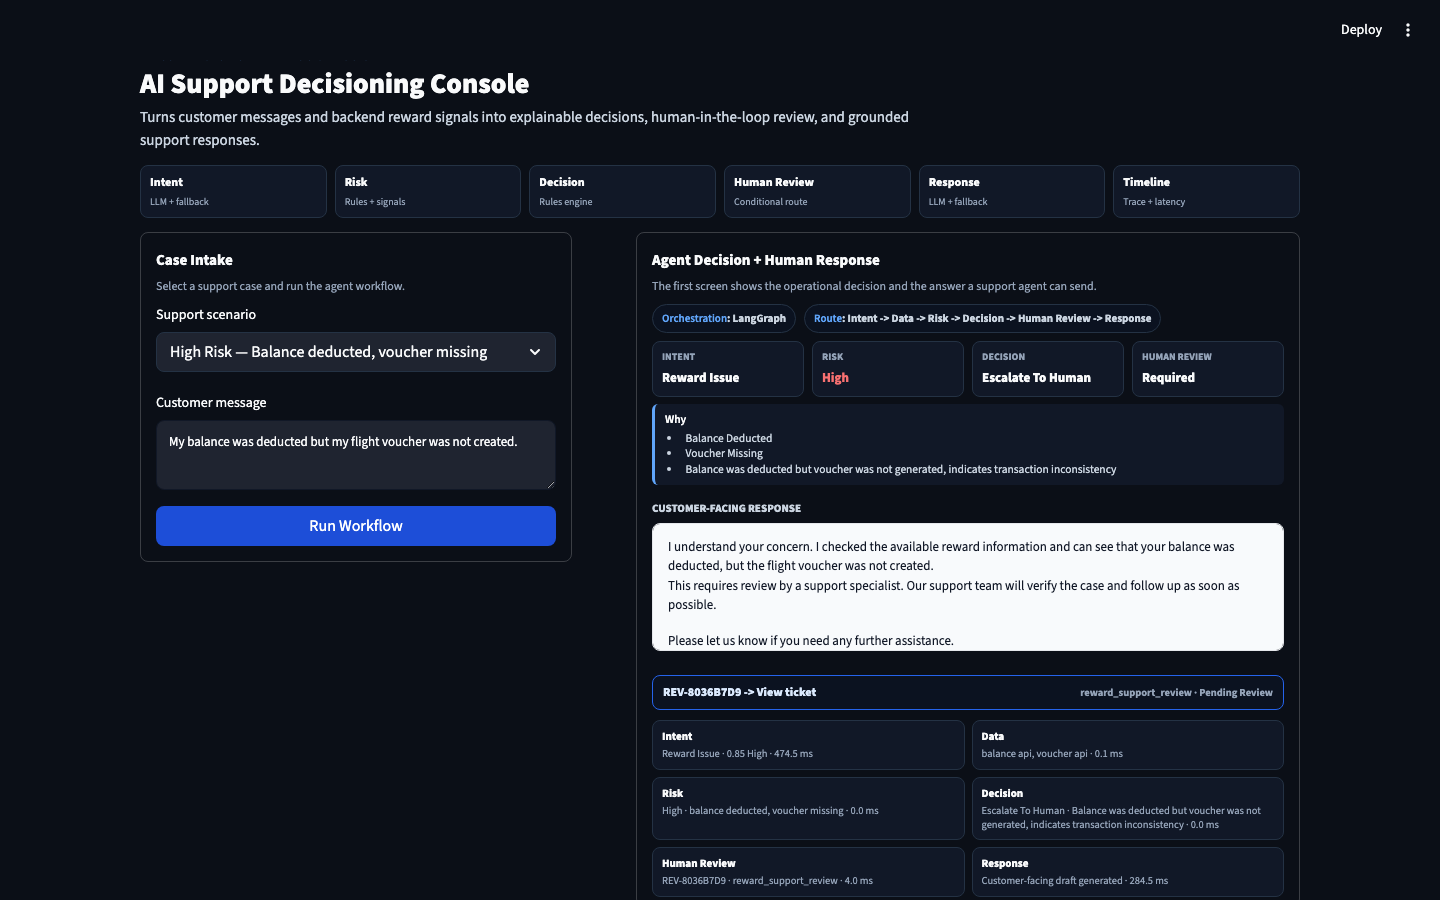
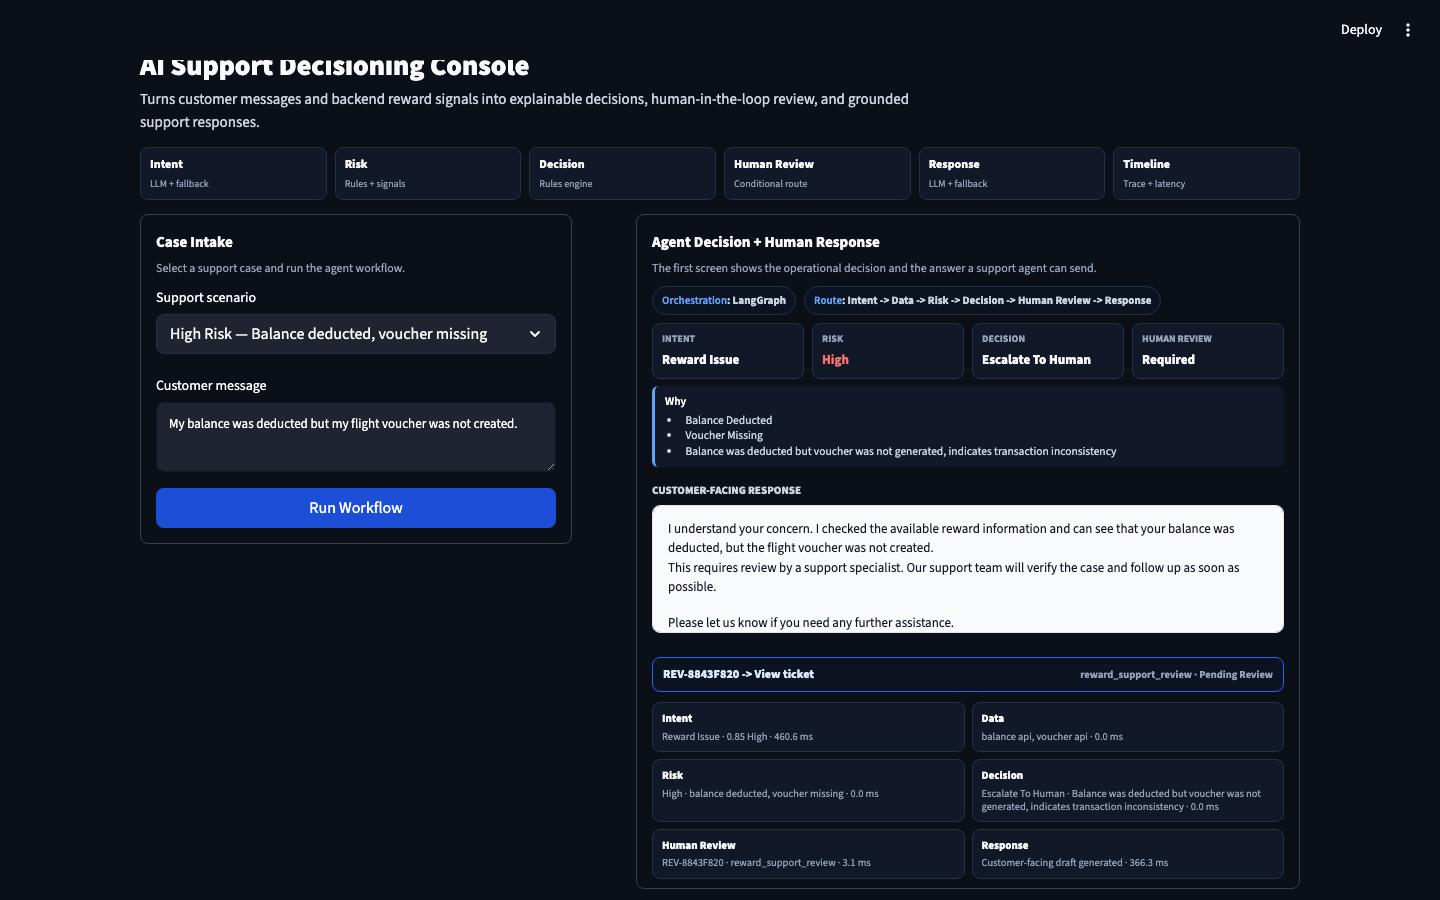
Fix decisioning console layout polish

Changed region(s): [[0.0938, 0.0622, 0.9062, 1.0]]

diff --git a/app/styles/global_styles.py b/app/styles/global_styles.py
@@ -22,16 +22,7 @@ def load_global_styles():
         }
 
         .app-header {
-            margin-bottom: 6px;
-        }
-
-        .app-kicker {
-            color: #60A5FA;
-            font-size: 11px;
-            font-weight: 850;
-            line-height: 1.35;
-            text-transform: uppercase;
-            margin-bottom: 3px;
+            margin-bottom: 4px;
         }
 
         .app-title {
@@ -213,7 +204,7 @@ def load_global_styles():
             font-size: 13px;
             line-height: 1.5;
             width: 100%;
-            max-height: 128px;
+            max-height: 118px;
             overflow-y: auto;
         }
 
@@ -240,7 +231,8 @@ def load_global_styles():
             grid-template-columns: repeat(2, minmax(0, 1fr));
             gap: 7px;
             margin-top: 10px;
-            margin-bottom: 10px;
+            margin-bottom: 18px;
+            padding-bottom: 4px;
         }
 
         .timeline-item {
@@ -249,7 +241,7 @@ def load_global_styles():
             border-radius: 8px;
             padding: 7px 9px;
             min-width: 0;
-            min-height: 50px;
+            min-height: 46px;
         }
 
         .timeline-step {

diff --git a/app/main.py b/app/main.py
@@ -226,7 +226,6 @@ def render_app_header() -> None:
     st.markdown(
         (
             '<div class="app-header">'
-            '<div class="app-kicker">LangGraph Orchestrated Decisioning System</div>'
             '<div class="app-title">AI Support Decisioning Console</div>'
             "</div>"
         ),